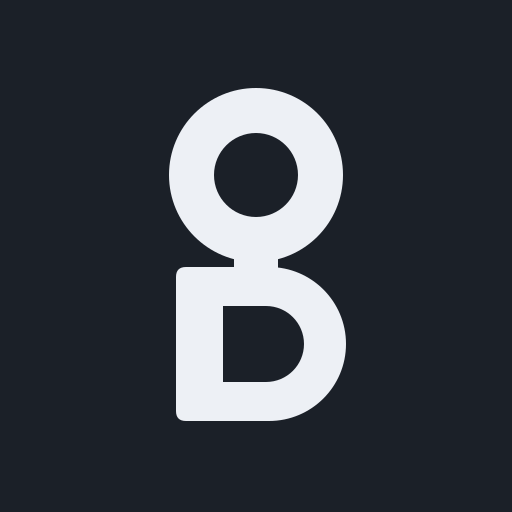
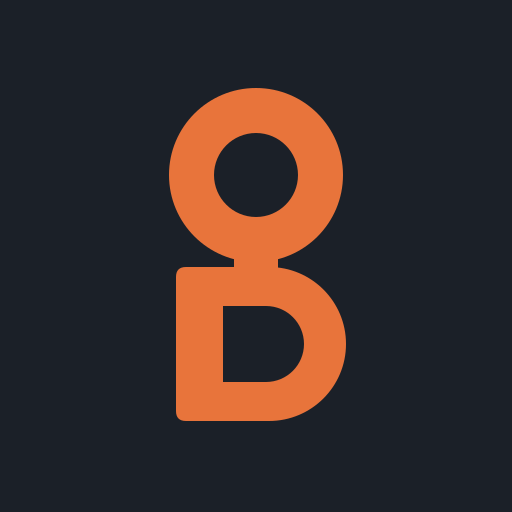
Keep the Our Days name and recolor the home screen mark orange.
The OD glyph is the terminal accent on the same tile. Manifest theme colors stay dark, and the favicon matches the home screen icons.

Changed region(s): [[0.3125, 0.1562, 0.6875, 0.8438]]

diff --git a/tests/contracts/app-icons.test.ts b/tests/contracts/app-icons.test.ts
@@ -28,19 +28,22 @@ function channelDelta(
   );
 }
 
+const accent = { r: 0xe8, g: 0x74, b: 0x3b };
+
 describe("installed app icons", () => {
-  it("uses the cloud-gray OD mark on blue-gray for PWA icons", async () => {
+  it("uses the orange OD mark on blue-gray for PWA icons", async () => {
     const source = await readFile(`${publicDir}icon-source.svg`, "utf8");
     expect(source).toContain('fill="#1b2028"');
-    expect(source).toContain('fill="#edf0f5"');
+    expect(source).toContain('fill="#e8743b"');
+    expect(source).not.toContain("#edf0f5");
     expect(source).not.toContain("paper");
     expect(source).not.toContain("#fffaf0");
     expect(source).not.toContain("#f3eee4");
 
     const webManifest = manifest();
     expect(webManifest).toMatchObject({
-      name: "Our Days Mono",
-      short_name: "Our Days Mono",
+      name: "Our Days",
+      short_name: "Our Days",
       background_color: "#14110f",
       theme_color: "#14110f",
     });
@@ -84,9 +87,52 @@ describe("installed app icons", () => {
         g: data[centerIndex + 1],
         b: data[centerIndex + 2],
       };
-      expect(channelDelta(center, { r: 0xed, g: 0xf0, b: 0xf5 })).toBeLessThan(
-        24,
-      );
+      expect(channelDelta(center, accent)).toBeLessThan(24);
+    }
+
+    const favicon = await readFile(`${publicDir}favicon.ico`);
+    const embedded = pngsInIco(favicon);
+    expect(embedded.map((image) => image.length)).toEqual([16, 32, 48]);
+    for (const image of embedded) {
+      const { data, info } = await sharp(image.png)
+        .ensureAlpha()
+        .raw()
+        .toBuffer({ resolveWithObject: true });
+      expect(
+        channelDelta({ r: data[0], g: data[1], b: data[2] }, canvas),
+      ).toBeLessThan(8);
+      const centerIndex =
+        (Math.floor(info.height / 2) * info.width +
+          Math.floor(info.width / 2)) *
+        info.channels;
+      expect(
+        channelDelta(
+          {
+            r: data[centerIndex],
+            g: data[centerIndex + 1],
+            b: data[centerIndex + 2],
+          },
+          accent,
+        ),
+      ).toBeLessThan(48);
     }
   });
 });
+
+function pngsInIco(file: Buffer) {
+  expect(file.readUInt16LE(0)).toBe(0);
+  expect(file.readUInt16LE(2)).toBe(1);
+  const count = file.readUInt16LE(4);
+  const images = [];
+  for (let index = 0; index < count; index += 1) {
+    const entry = 6 + index * 16;
+    const size = file.readUInt8(entry) || 256;
+    const length = file.readUInt32LE(entry + 8);
+    const offset = file.readUInt32LE(entry + 12);
+    images.push({
+      length: size,
+      png: file.subarray(offset, offset + length),
+    });
+  }
+  return images;
+}

diff --git a/src/app/layout.tsx b/src/app/layout.tsx
@@ -22,6 +22,7 @@ export const metadata: Metadata = {
   robots: { index: false, follow: false },
   icons: {
     icon: [
+      { url: "/favicon.ico" },
       { url: "/icon-192.png", sizes: "192x192", type: "image/png" },
       { url: "/icon-512.png", sizes: "512x512", type: "image/png" },
     ],
@@ -33,7 +34,7 @@ export const metadata: Metadata = {
   },
   appleWebApp: {
     capable: true,
-    title: "Our Days Mono",
+    title: "Our Days",
     statusBarStyle: "black-translucent",
   },
   openGraph: {

diff --git a/public/offline.html b/public/offline.html
@@ -5,7 +5,7 @@
     <meta name="viewport" content="width=device-width,initial-scale=1,viewport-fit=cover" />
     <meta name="robots" content="noindex,nofollow,noarchive,nosnippet" />
     <meta name="theme-color" content="#14110f" />
-    <title>Our Days Mono — Offline</title>
+    <title>Our Days — Offline</title>
     <link rel="stylesheet" href="/offline.css" />
   </head>
   <body>

diff --git a/src/app/manifest.ts b/src/app/manifest.ts
@@ -4,8 +4,8 @@ import { terminalBackground } from "@/features/shell/terminal-accent";
 export default function manifest(): MetadataRoute.Manifest {
   return {
     id: "/",
-    name: "Our Days Mono",
-    short_name: "Our Days Mono",
+    name: "Our Days",
+    short_name: "Our Days",
     description: "A quiet, private journal.",
     start_url: "/family",
     scope: "/",
